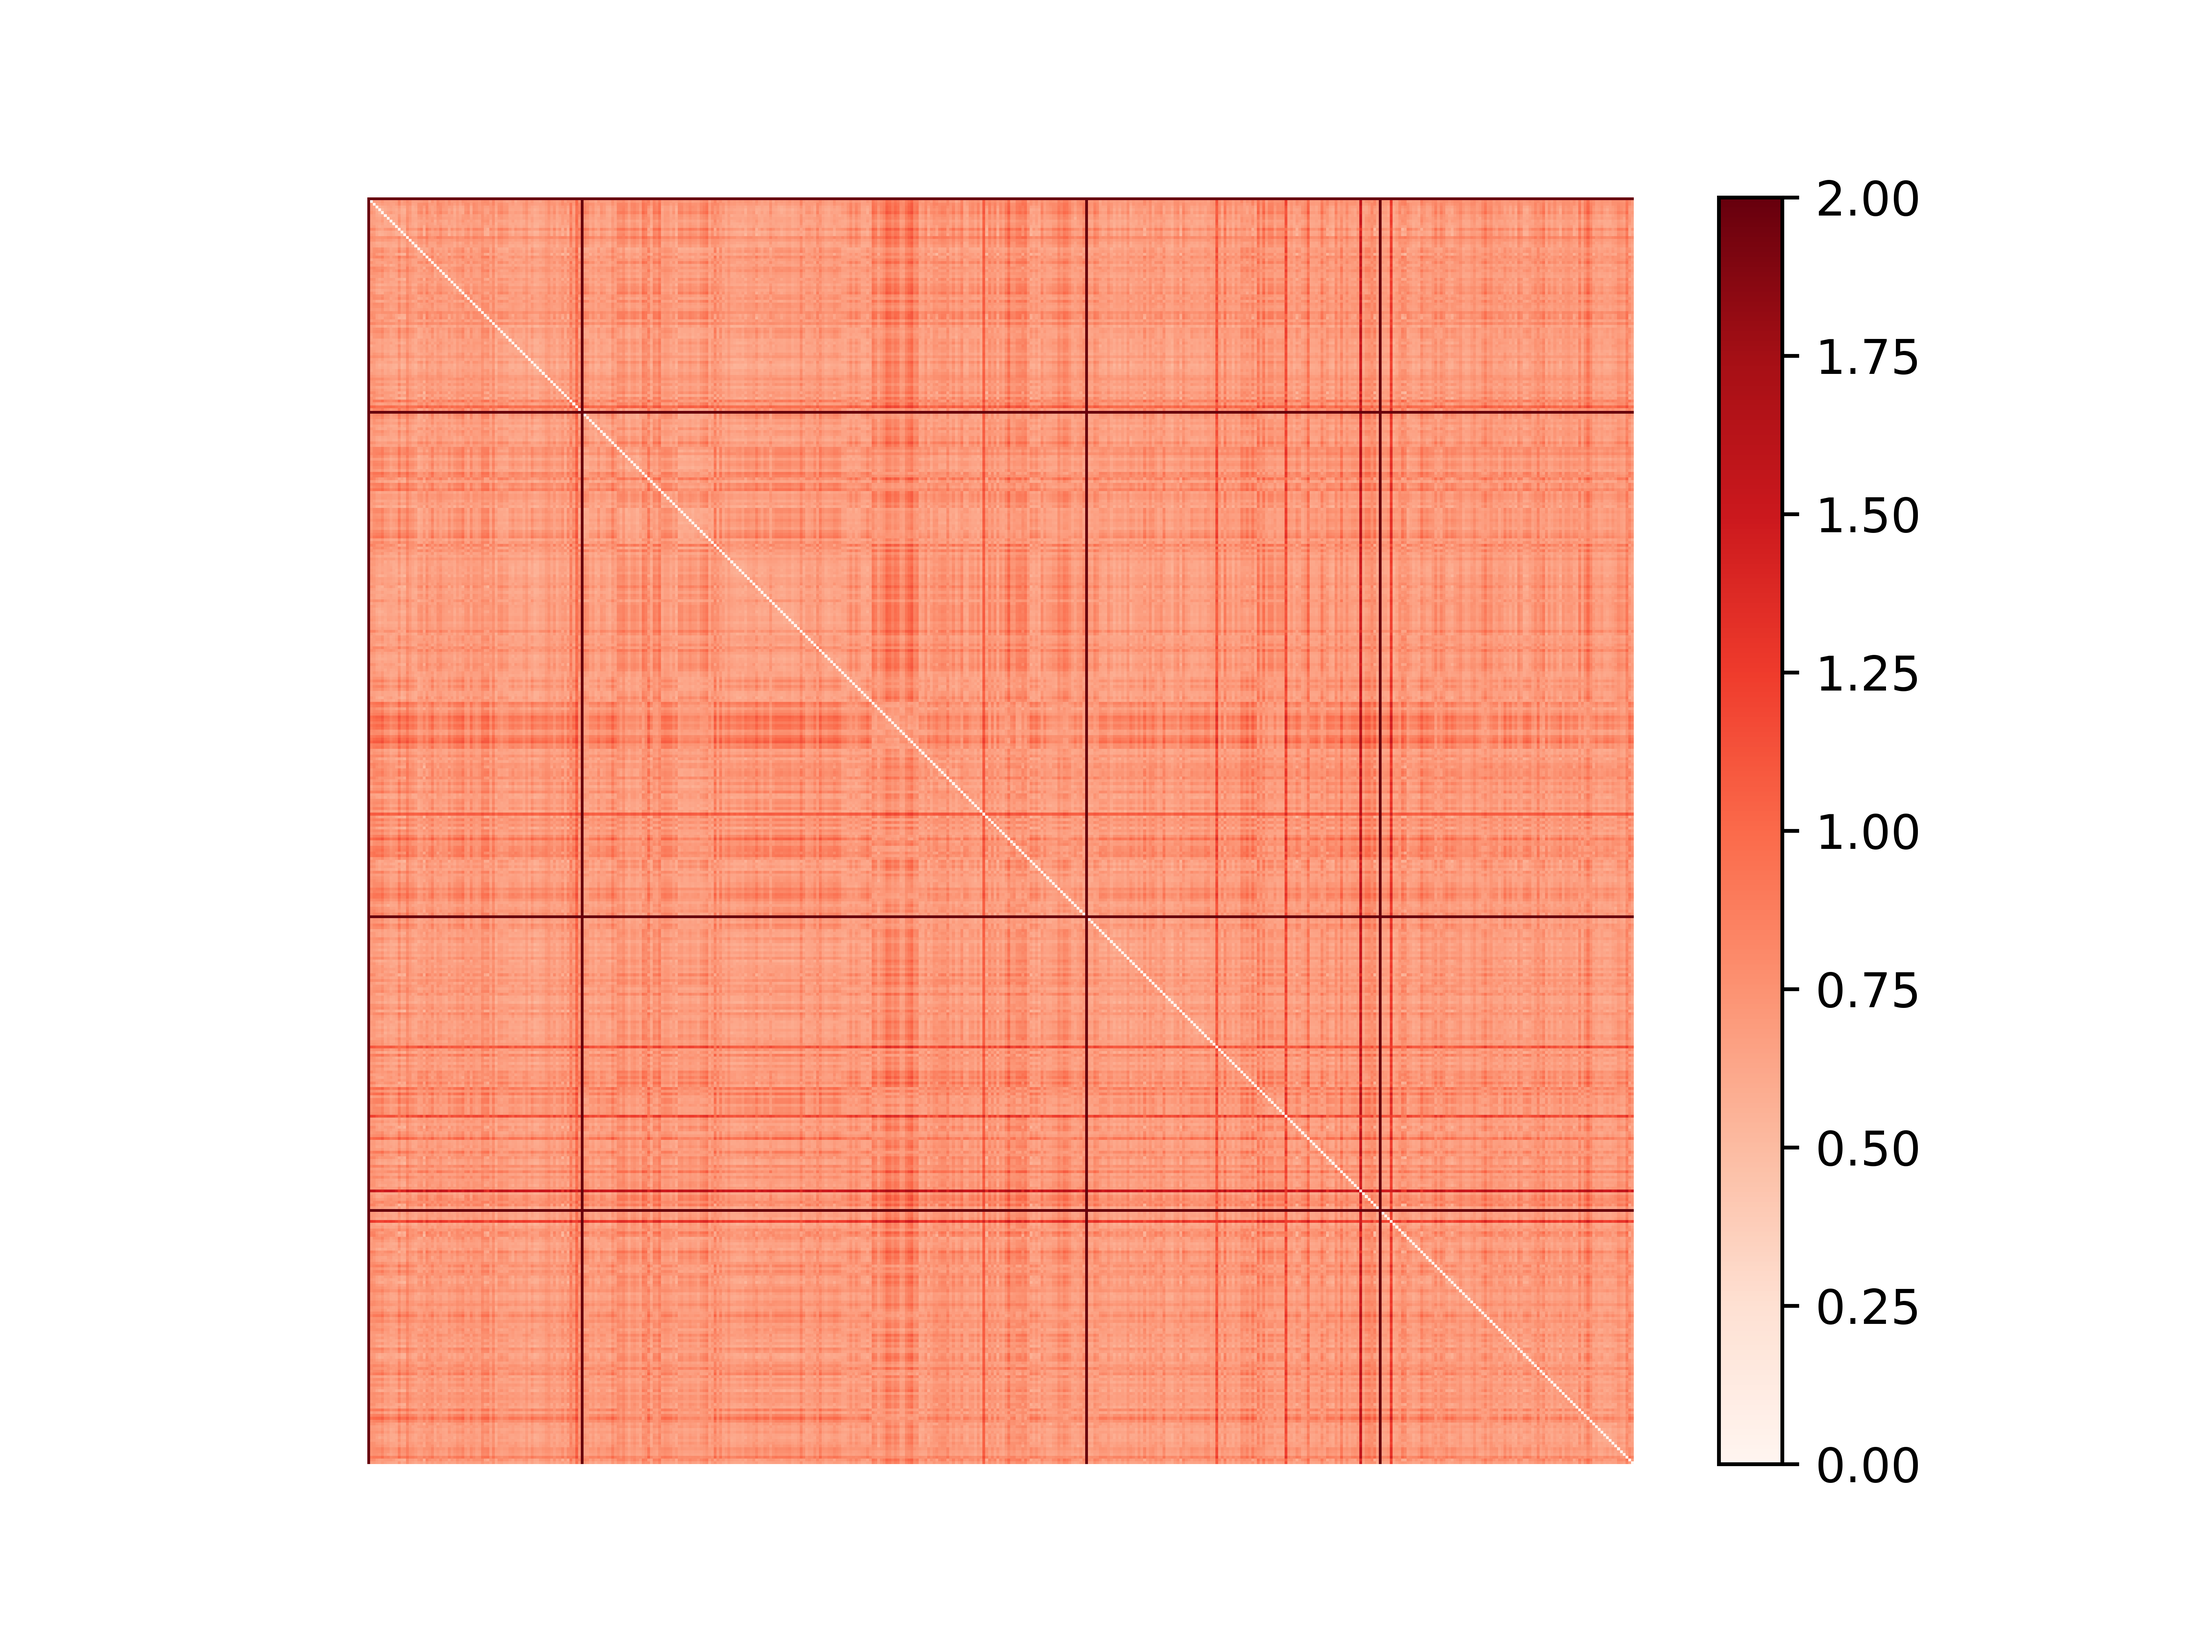
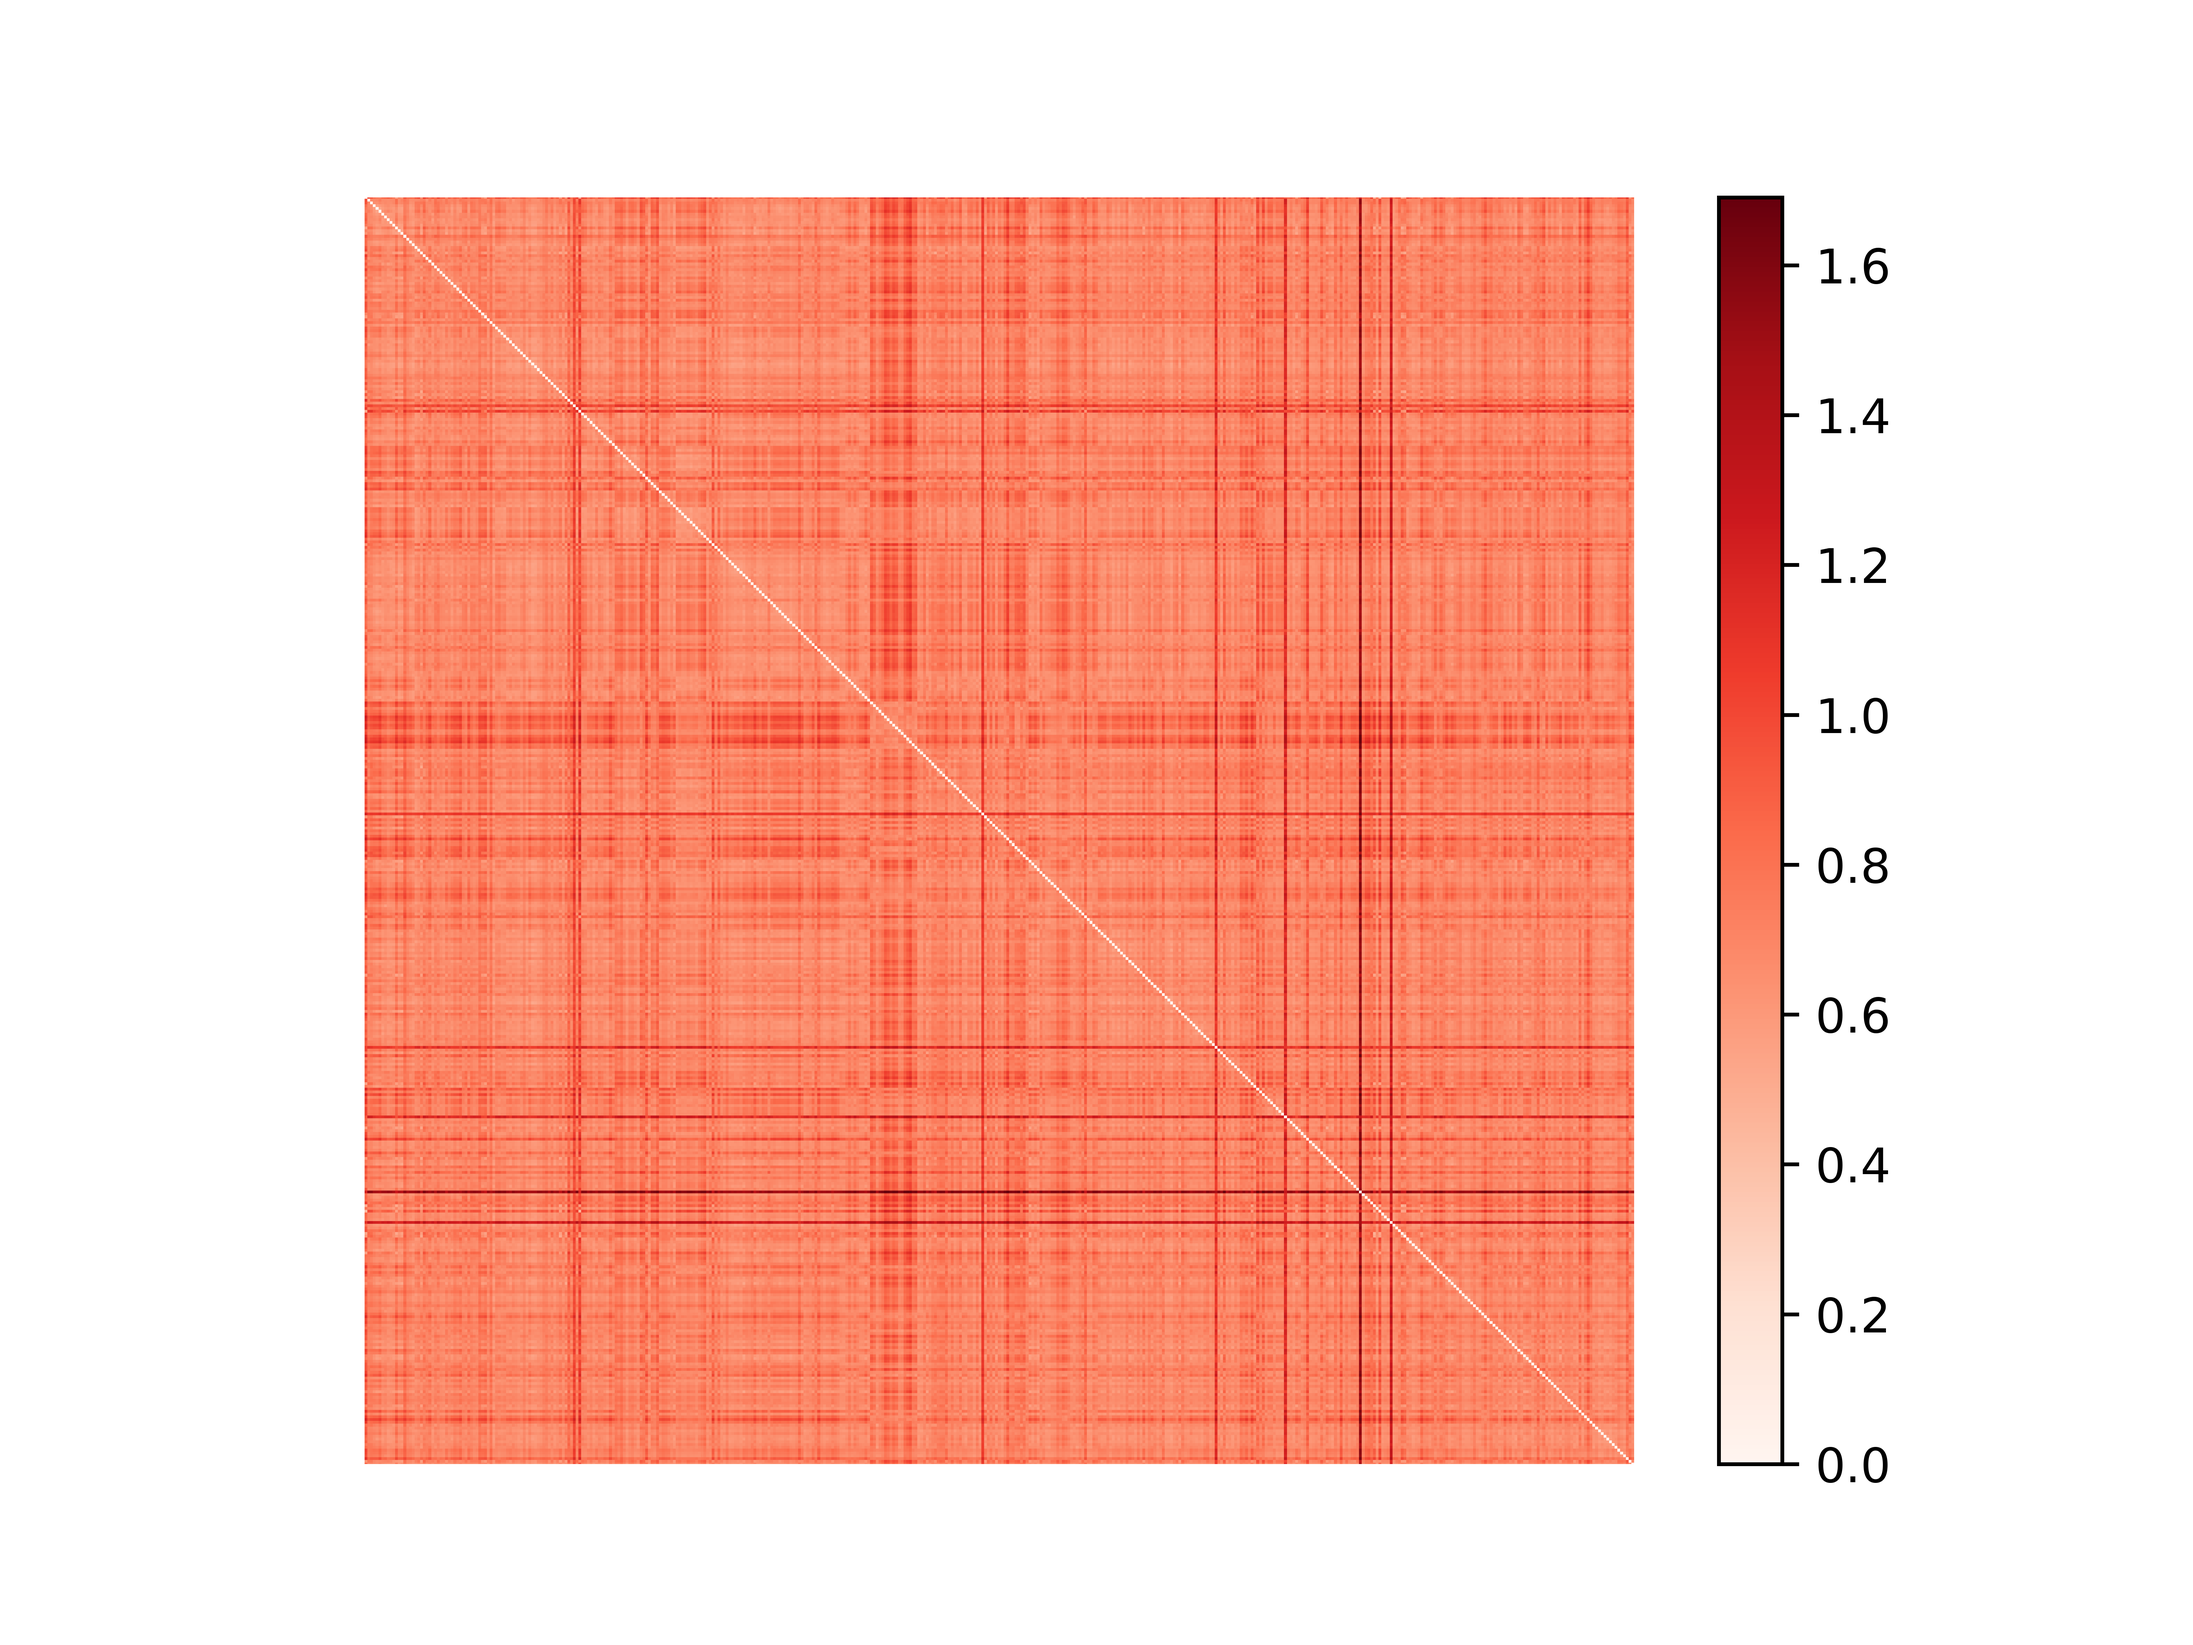
highlight done $ testing go cities

diff --git a/highlight.py b/highlight.py
@@ -12,7 +12,9 @@ import numpy as np
 import plotly.graph_objects as go
 
 
-def show_mat(mat, names):
+
+
+def show_mat(mat, names, target_names):
 
     fig = plt.figure()
     ax = fig.add_subplot()
@@ -20,14 +22,43 @@ def show_mat(mat, names):
     fig.colorbar(cax)
     ticks = np.arange(0, len(names), 1)
 
-    # ax.set_xticks(ticks,)
-    # ax.set_yticks(ticks)
-    # ax.set_xticklabels(names, size=7, rotation=45)
-    # ax.set_yticklabels(names, size=7)
+    ax.set_xticks(ticks,)
+    ax.set_yticks(ticks)
+    highlight_names = []
+    for name in names:
+        if name in target_names:
+            highlight_names.append(name)
+        else:
+            highlight_names.append(None)
+
+    ax.set_xticklabels(highlight_names, size=5, rotation=45)
+    ax.set_yticklabels(highlight_names, size=5)
 
     plt.axis('off')
+    # ax.xaxis.set
+
     plt.savefig('highlight_mat.png', dpi=1000)
     plt.show()
+
+    values=[1,1,1,1]
+
+    fig = go.Figure(data=go.Choropleth(
+        locations=list(target_names),  # Spatial coordinates
+        z=list(values),  # Data to be color-coded
+        locationmode='USA-states',  # set of locations match entries in `locations`
+        colorscale='matter',
+        colorbar_title="Cluster",
+        reversescale=True,
+
+    ))
+
+    fig.update_layout(
+        title_text='KMedoids-CLustering, ' +
+        measure + ' , clusters: ' + str(n),
+        geo_scope='usa',  # limite map scope to USA
+    )
+
+    fig.show()
 
 
 def show_plt(gran, method, geo_sort):
@@ -64,6 +95,7 @@ def show_plt(gran, method, geo_sort):
     #taget_names = ['OH', 'UT', 'IN', 'OK', 'KY', 'ND', 'WV']
     taget_names = ['Lewisville, TX', 'Santa Clarita, CA',
                    'Spokane, WA', 'Riverview, FL']
+
     target_ind = [i for i in range(len(cluster_names))
                   if cluster_names[i] in taget_names]
 
@@ -72,14 +104,14 @@ def show_plt(gran, method, geo_sort):
     for i in range(len(leaves)):
         for j in range(len(leaves)):
 
-            if i in target_ind:
-                highlight_mat[i][j] = 2
-            elif j in target_ind:
-                highlight_mat[i][j] = 2
-            else:
-                highlight_mat[i][j] = noremd_mat[leaves[i]][leaves[j]]
+            # if i in target_ind:
+            #     highlight_mat[i][j] = 1.8
+            # elif j in target_ind:
+            #     highlight_mat[i][j] = 1.8
+            # else:
+            highlight_mat[i][j] = noremd_mat[leaves[i]][leaves[j]]
 
-    show_mat(highlight_mat, cluster_names)
+    show_mat(highlight_mat, cluster_names, taget_names)
 
     # positions = [i + 0.5 for i in range(len(names))]
     # dendo.ax_heatmap.set_xticklabels(cluster_names)

diff --git a/test_buuble_map.py b/test_buuble_map.py
@@ -1,0 +1,14 @@
+import plotly.graph_objects as go
+#df = px.data.gapminder().query("year==2007")
+fig = go.Figure()
+
+fig.add_trace(go.Scattergeo(
+    lon=[21.0936],
+    lat=[7.1881],
+    text=['Africa'],
+    mode='text',
+    showlegend=False,
+    geo='geo2'
+))
+
+fig.show()
